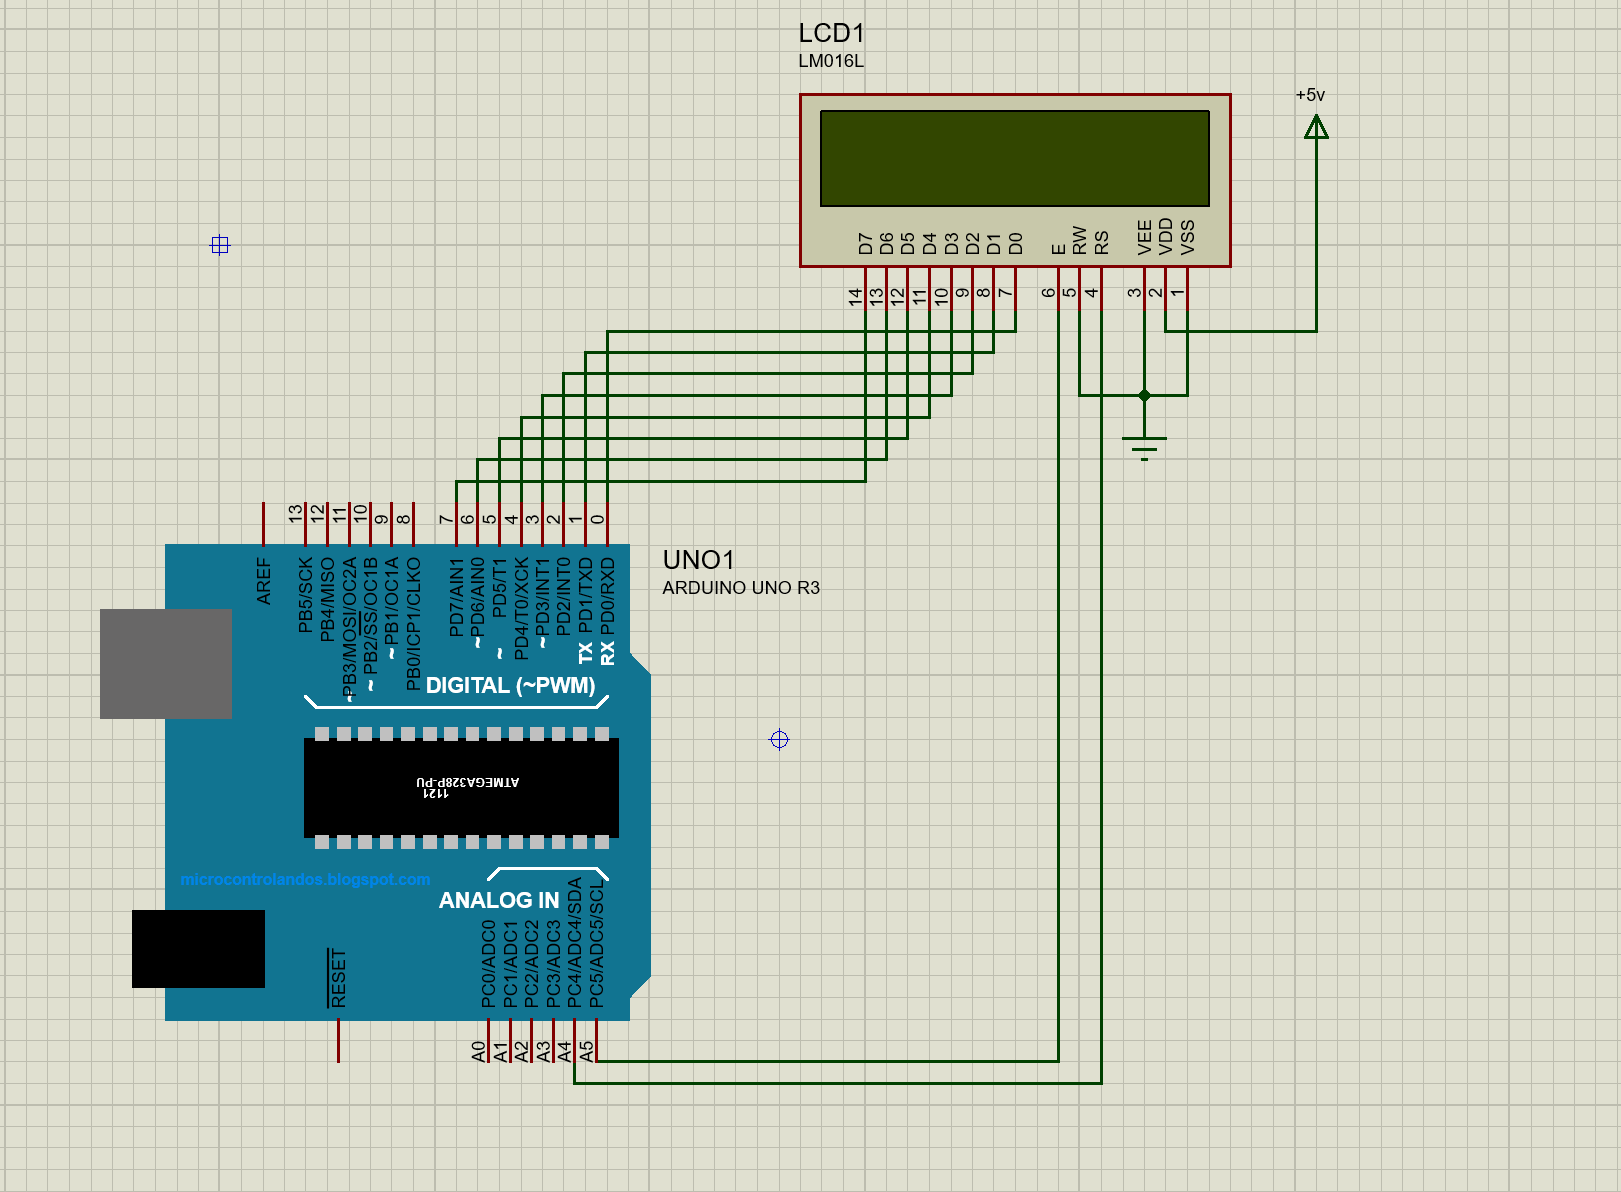
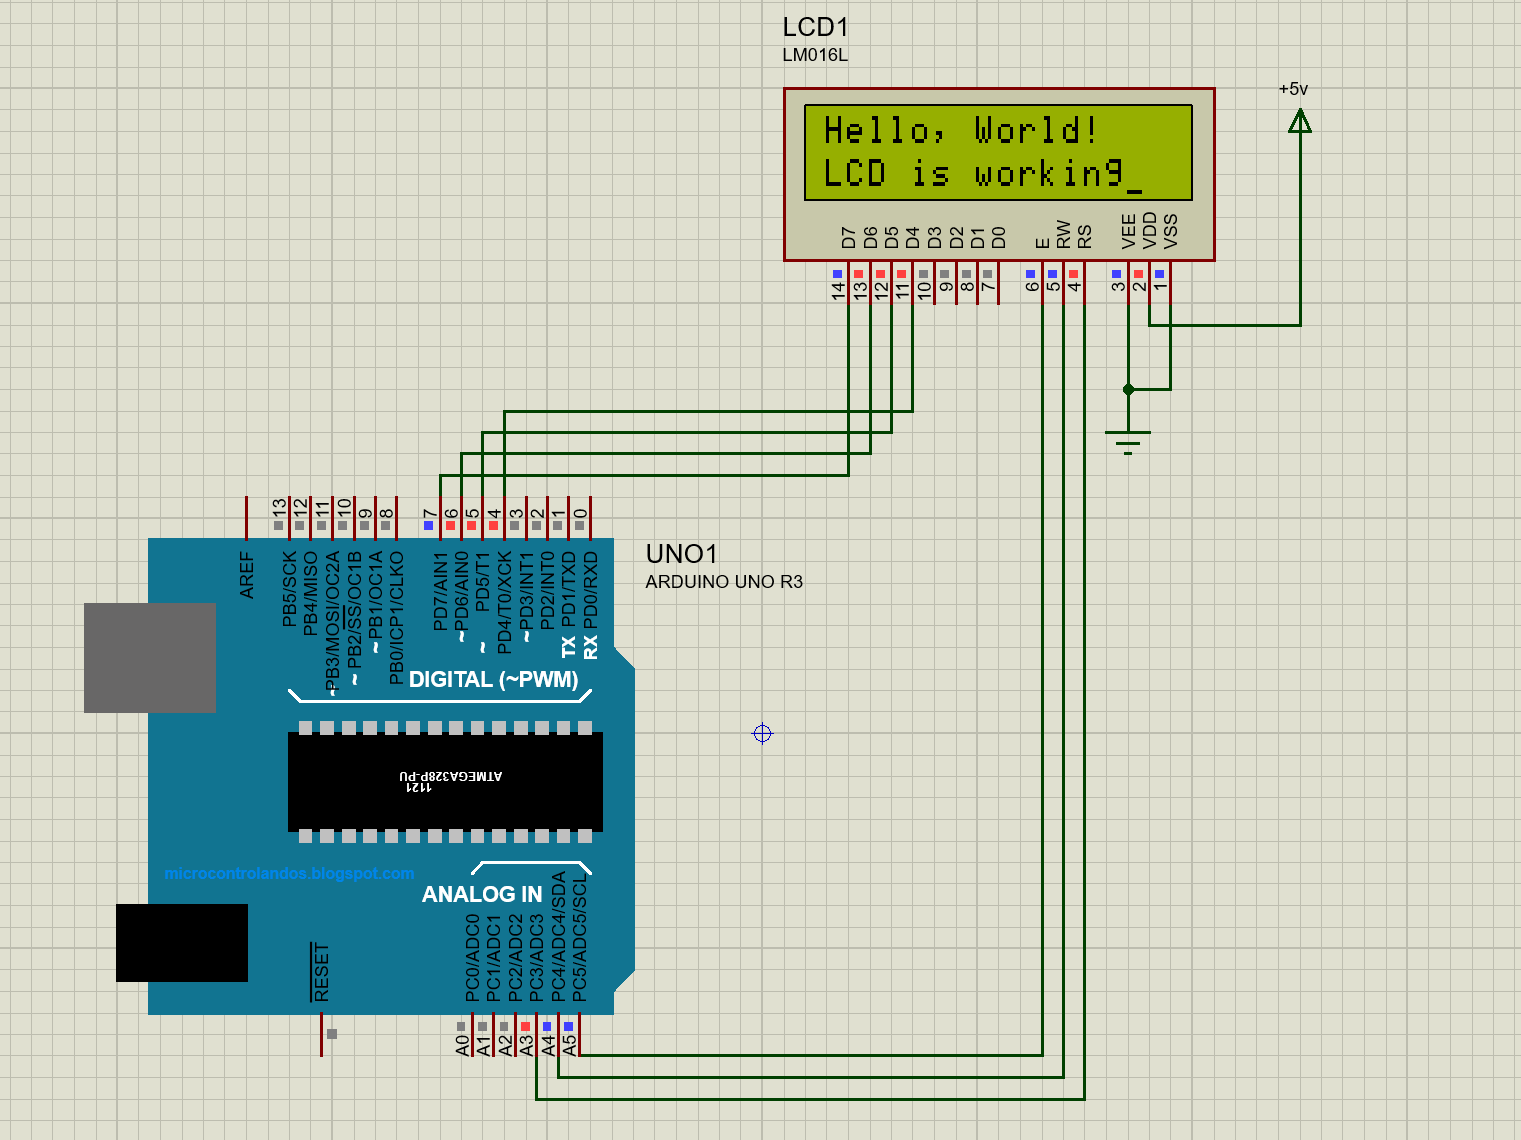
All working good simulation updated

Changed region(s): [[0.0, 0.0, 1.0, 1.0]]

diff --git a/LCD.c b/LCD.c
@@ -1,0 +1,79 @@
+
+/*
+ * LCD.c
+ *
+ * Author : Hossam Elbahrawy
+ */ 
+#include "LCD.h"
+
+
+void lcd_init(void)
+{	
+	
+	DATA_DDR = (1<<LCD_D7) | (1<<LCD_D6) | (1<<LCD_D5)| (1<<LCD_D4);
+	CTL_DDR |= (1<<LCD_EN)|(1<<LCD_RW)|(1<<LCD_RS);
+
+	
+	DATA_BUS = (0<<LCD_D7)|(0<<LCD_D6)|(1<<LCD_D5)|(0<<LCD_D4);
+	CTL_BUS|= (1<<LCD_EN)|(0<<LCD_RW)|(0<<LCD_RS);
+	_delay_ms(1);
+	CTL_BUS &=~(1<<LCD_EN);
+	_delay_ms(1);
+	
+	lcd_send_command(LCD_CMD_4BIT_2ROW_5X7);
+	_delay_ms(1);
+	lcd_send_command(LCD_CMD_DISPLAY_CURSOR_BLINK);
+	_delay_ms(1);
+	lcd_send_command(0x80);
+	
+}
+
+void lcd_send_command (uint8_t command)
+{
+	DATA_BUS=(command&0b11110000); 
+	CTL_BUS &=~(1<<LCD_RS);
+	CTL_BUS |=(1<<LCD_EN);
+	_delay_ms(1);
+	CTL_BUS &=~(1<<LCD_EN);
+	_delay_ms(1);
+	DATA_BUS=((command&0b00001111)<<4);
+	CTL_BUS |=(1<<LCD_EN);
+	_delay_ms(1);
+	CTL_BUS &=~(1<<LCD_EN);
+	_delay_ms(1);
+}
+void lcd_write_word(uint8_t word[20])
+{
+	int i=0;
+	while(word[i]!='\0')
+	{
+		lcd_write_character(word[i]);
+		i++;
+	}
+}
+void lcd_write_character(uint8_t character)
+{
+	
+	DATA_BUS=(character & 0b11110000);
+	CTL_BUS|=(1<<LCD_RS);
+	CTL_BUS |=(1<<LCD_EN);
+	_delay_ms(2);
+	CTL_BUS &=~(1<<LCD_EN);
+	_delay_ms(2);
+	DATA_BUS=((character & 0b00001111)<<4);
+	CTL_BUS |=(1<<LCD_EN);
+	_delay_ms(2);
+	CTL_BUS &=~(1<<LCD_EN);
+	_delay_ms(2);
+	
+}
+void lcd_clear(void)
+{
+	lcd_send_command(LCD_CMD_CLEAR_DISPLAY);
+	_delay_ms(5);
+}
+void lcd_goto_xy (uint8_t line,uint8_t pos)				//line = 0 or 1
+{
+	lcd_send_command((0x80|(line<<6))+pos);
+	_delay_us (50);
+}

diff --git a/LCD.h b/LCD.h
@@ -1,0 +1,35 @@
+/*
+ * LCD.h
+ *
+ * Author : Hossam Elbahrawy
+ */ 
+#ifndef LCD_H_
+#define LCD_H_
+
+#include "pin_config.h"
+
+#define LCD_CMD_CLEAR_DISPLAY	          0x01
+#define LCD_CMD_CURSOR_HOME		          0x02
+
+// Display control
+#define LCD_CMD_DISPLAY_OFF                0x08
+#define LCD_CMD_DISPLAY_NO_CURSOR          0x0c
+#define LCD_CMD_DISPLAY_CURSOR_NO_BLINK    0x0E
+#define LCD_CMD_DISPLAY_CURSOR_BLINK       0x0F
+
+// Function set
+#define LCD_CMD_4BIT_2ROW_5X7              0x28
+#define LCD_CMD_8BIT_2ROW_5X7              0x38
+
+//functions prototype
+void lcd_init(void);
+void lcd_send_command (uint8_t );
+void lcd_write_character(uint8_t );
+void lcd_write_word(uint8_t []);
+void lcd_clear(void);
+void lcd_set_courser(uint8_t,uint8_t);
+void lcd_goto_xy (uint8_t , uint8_t );
+
+
+
+#endif /* LCD_H_ */

diff --git a/pin_config.h b/pin_config.h
@@ -1,0 +1,27 @@
+/*
+ * pin_config.h
+ *
+ * Author : Hossam Elbahrawy
+ */ 
+#ifndef PIN_CONFIG_H_
+#define PIN_CONFIG_H_
+
+#include <avr/io.h>
+#include <util/delay.h>
+
+#define DATA_BUS	PORTD
+#define CTL_BUS		PORTC
+#define DATA_DDR	DDRD
+#define CTL_DDR		DDRC
+#define LCD_D4			4
+#define LCD_D5			5
+#define LCD_D6			6
+#define LCD_D7			7
+#define LCD_EN			5
+#define	LCD_RW			4
+#define	LCD_RS			3
+
+
+
+
+#endif /* PIN_CONFIG_H_ */

diff --git a/main.c b/main.c
@@ -1,0 +1,22 @@
+/*
+ * main.c
+ *
+ * Author : Hossam Elbahrawy
+ */ 
+#include "LCD.h"
+#include <avr/io.h>
+#include <util/delay.h>
+
+
+
+
+int main(void)
+{
+	
+	lcd_init();
+	lcd_write_word("Hello, World!");
+	lcd_goto_xy(1,0);
+	lcd_write_word("LCD is working");
+ 
+}
+

diff --git a/README.md b/README.md
@@ -3,7 +3,7 @@
 
 Introduction
 ------------
-A simple 16x2 LCD interfacing with ATmega328p in both 4-bit and 8-bit modes using the AVR toolchain without the Arduino IDE.
+A simple 16x2 LCD interfacing with ATmega328p in 4-bit mode using the AVR toolchain without the Arduino IDE.
 
 Hardware
 --------
